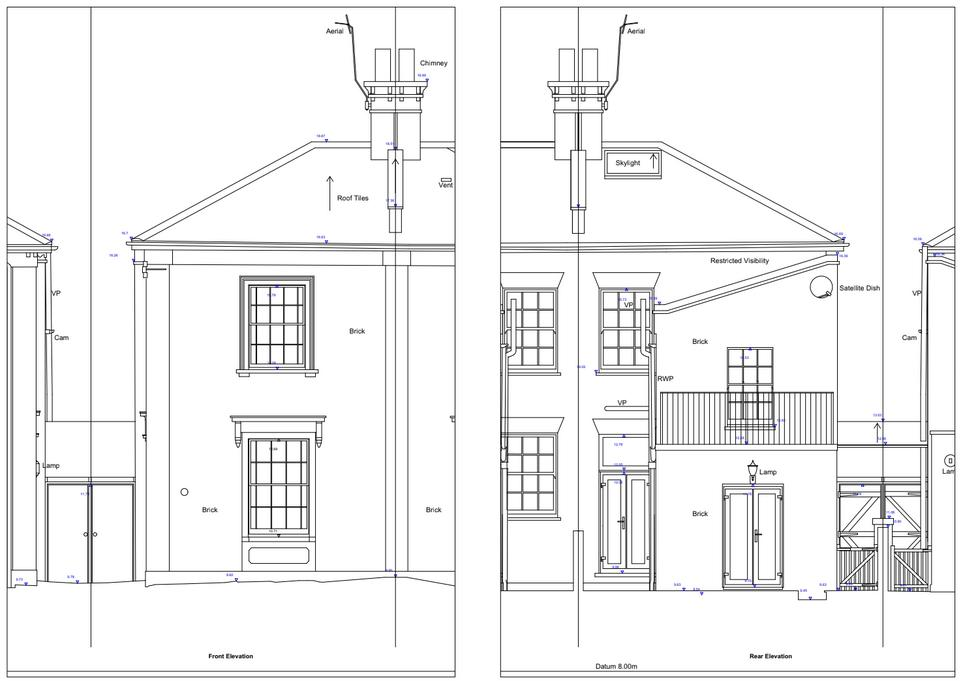
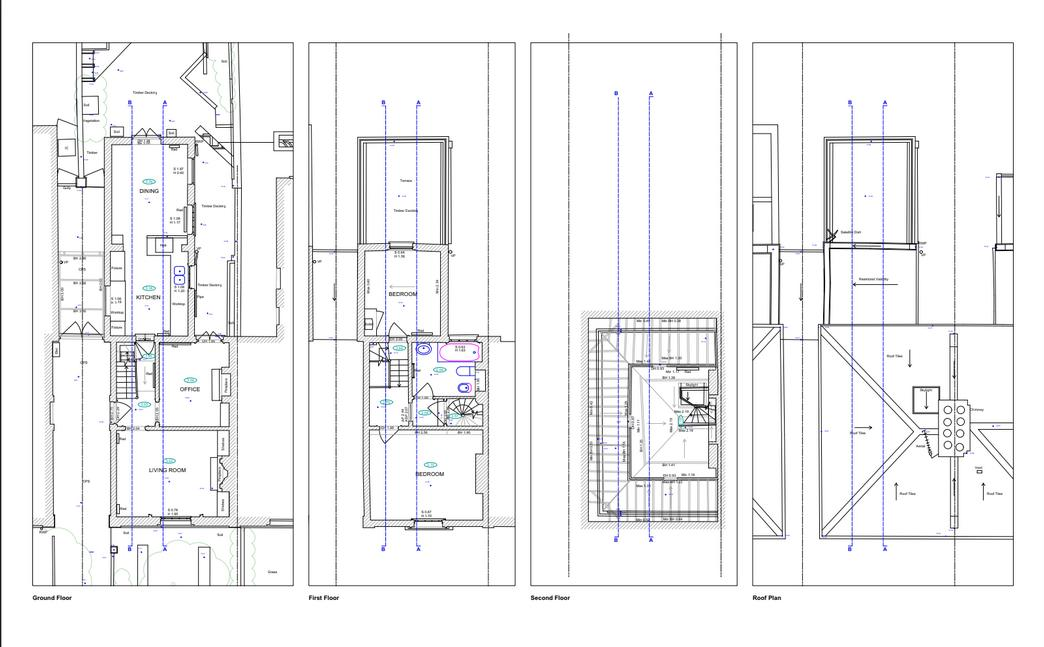
wrg

Changed region(s): [[0.0, 0.0, 0.999, 1.0], [0.4995, 0.9583, 0.999, 1.0]]

diff --git a/lib/ui/sections/projects_section.dart b/lib/ui/sections/projects_section.dart
@@ -282,10 +282,24 @@ class _ProjectDetailsState extends State<_ProjectDetails> {
                         controller: _page,
                         itemCount: gallery.length,
                         onPageChanged: (i) => setState(() => _i = i),
-                        itemBuilder: (_, i) => Ink.image(
-                          image: _imgProvider(gallery[i]),
-                          fit: BoxFit.cover,
-                          child: const SizedBox.expand(),
+                        itemBuilder: (_, i) => GestureDetector(
+                          onTap: () => Navigator.of(context).push(
+                            MaterialPageRoute(
+                              fullscreenDialog: true,
+                              builder: (_) => _GalleryFullscreen(
+                                images: gallery,
+                                initialIndex: i,
+                              ),
+                            ),
+                          ),
+                          child: Hero(
+                            tag: 'gallery-hero-${gallery[i]}',
+                            child: Ink.image(
+                              image: _imgProvider(gallery[i]),
+                              fit: BoxFit.cover,
+                              child: const SizedBox.expand(),
+                            ),
+                          ),
                         ),
                       ),
                       Positioned.fill(
@@ -372,6 +386,167 @@ class _NavBtn extends StatelessWidget {
         child: Padding(
           padding: const EdgeInsets.all(6),
           child: Icon(icon, color: Colors.white),
+        ),
+      ),
+    );
+  }
+}
+
+class _GalleryFullscreen extends StatefulWidget {
+  const _GalleryFullscreen({required this.images, this.initialIndex = 0});
+  final List<String> images;
+  final int initialIndex;
+
+  @override
+  State<_GalleryFullscreen> createState() => _GalleryFullscreenState();
+}
+
+class _GalleryFullscreenState extends State<_GalleryFullscreen> {
+  late final PageController _ctrl;
+  late int _index;
+
+  @override
+  void initState() {
+    super.initState();
+    _index = widget.initialIndex;
+    _ctrl = PageController(initialPage: _index);
+  }
+
+  @override
+  void dispose() {
+    _ctrl.dispose();
+    super.dispose();
+  }
+
+  ImageProvider _provider(String path) {
+    return path.startsWith('http')
+        ? NetworkImage(path)
+        : AssetImage(path) as ImageProvider;
+  }
+
+  @override
+  Widget build(BuildContext context) {
+    return Scaffold(
+      backgroundColor: Colors.black,
+      body: Stack(
+        children: [
+          // Slajdy z pinch-to-zoom
+          PageView.builder(
+            controller: _ctrl,
+            itemCount: widget.images.length,
+            onPageChanged: (i) => setState(() => _index = i),
+            itemBuilder: (_, i) {
+              final img = widget.images[i];
+              return Center(
+                child: Hero(
+                  tag: 'gallery-hero-$img',
+                  child: InteractiveViewer(
+                    panEnabled: true,
+                    minScale: 1.0,
+                    maxScale: 5.0,
+                    child: Image(
+                      image: _provider(img),
+                      fit: BoxFit.contain, // pokaż CAŁE zdjęcie
+                    ),
+                  ),
+                ),
+              );
+            },
+          ),
+
+          // Pasek górny: zamknij + licznik
+          SafeArea(
+            child: Row(
+              children: [
+                const SizedBox(width: 8),
+                Material(
+                  color: Colors.black54,
+                  shape: const CircleBorder(),
+                  child: IconButton(
+                    icon: const Icon(Icons.close, color: Colors.white),
+                    onPressed: () => Navigator.of(context).pop(),
+                  ),
+                ),
+                const Spacer(),
+                Container(
+                  margin: const EdgeInsets.only(right: 12),
+                  padding:
+                      const EdgeInsets.symmetric(horizontal: 10, vertical: 6),
+                  decoration: BoxDecoration(
+                    color: Colors.black54,
+                    borderRadius: BorderRadius.circular(999),
+                  ),
+                  child: Text(
+                    '${_index + 1} / ${widget.images.length}',
+                    style: const TextStyle(color: Colors.white),
+                  ),
+                ),
+              ],
+            ),
+          ),
+
+          // Strzałki (opcjonalnie na desktopie)
+          if (widget.images.length > 1) ...[
+            Positioned.fill(
+              child: IgnorePointer(
+                ignoring: false,
+                child: Row(
+                  mainAxisAlignment: MainAxisAlignment.spaceBetween,
+                  children: [
+                    _FsNavBtn(
+                      icon: Icons.chevron_left,
+                      onTap: () {
+                        final prev =
+                            (_index - 1).clamp(0, widget.images.length - 1);
+                        _ctrl.animateToPage(
+                          prev,
+                          duration: const Duration(milliseconds: 220),
+                          curve: Curves.easeOut,
+                        );
+                      },
+                    ),
+                    _FsNavBtn(
+                      icon: Icons.chevron_right,
+                      onTap: () {
+                        final next =
+                            (_index + 1).clamp(0, widget.images.length - 1);
+                        _ctrl.animateToPage(
+                          next,
+                          duration: const Duration(milliseconds: 220),
+                          curve: Curves.easeOut,
+                        );
+                      },
+                    ),
+                  ],
+                ),
+              ),
+            ),
+          ],
+        ],
+      ),
+    );
+  }
+}
+
+class _FsNavBtn extends StatelessWidget {
+  const _FsNavBtn({required this.icon, required this.onTap});
+  final IconData icon;
+  final VoidCallback onTap;
+
+  @override
+  Widget build(BuildContext context) {
+    return Padding(
+      padding: const EdgeInsets.symmetric(horizontal: 8),
+      child: Material(
+        color: Colors.black38,
+        shape: const CircleBorder(),
+        child: InkWell(
+          customBorder: const CircleBorder(),
+          onTap: onTap,
+          child: Padding(
+            padding: const EdgeInsets.all(8),
+            child: Icon(icon, color: Colors.white, size: 36),
+          ),
         ),
       ),
     );
